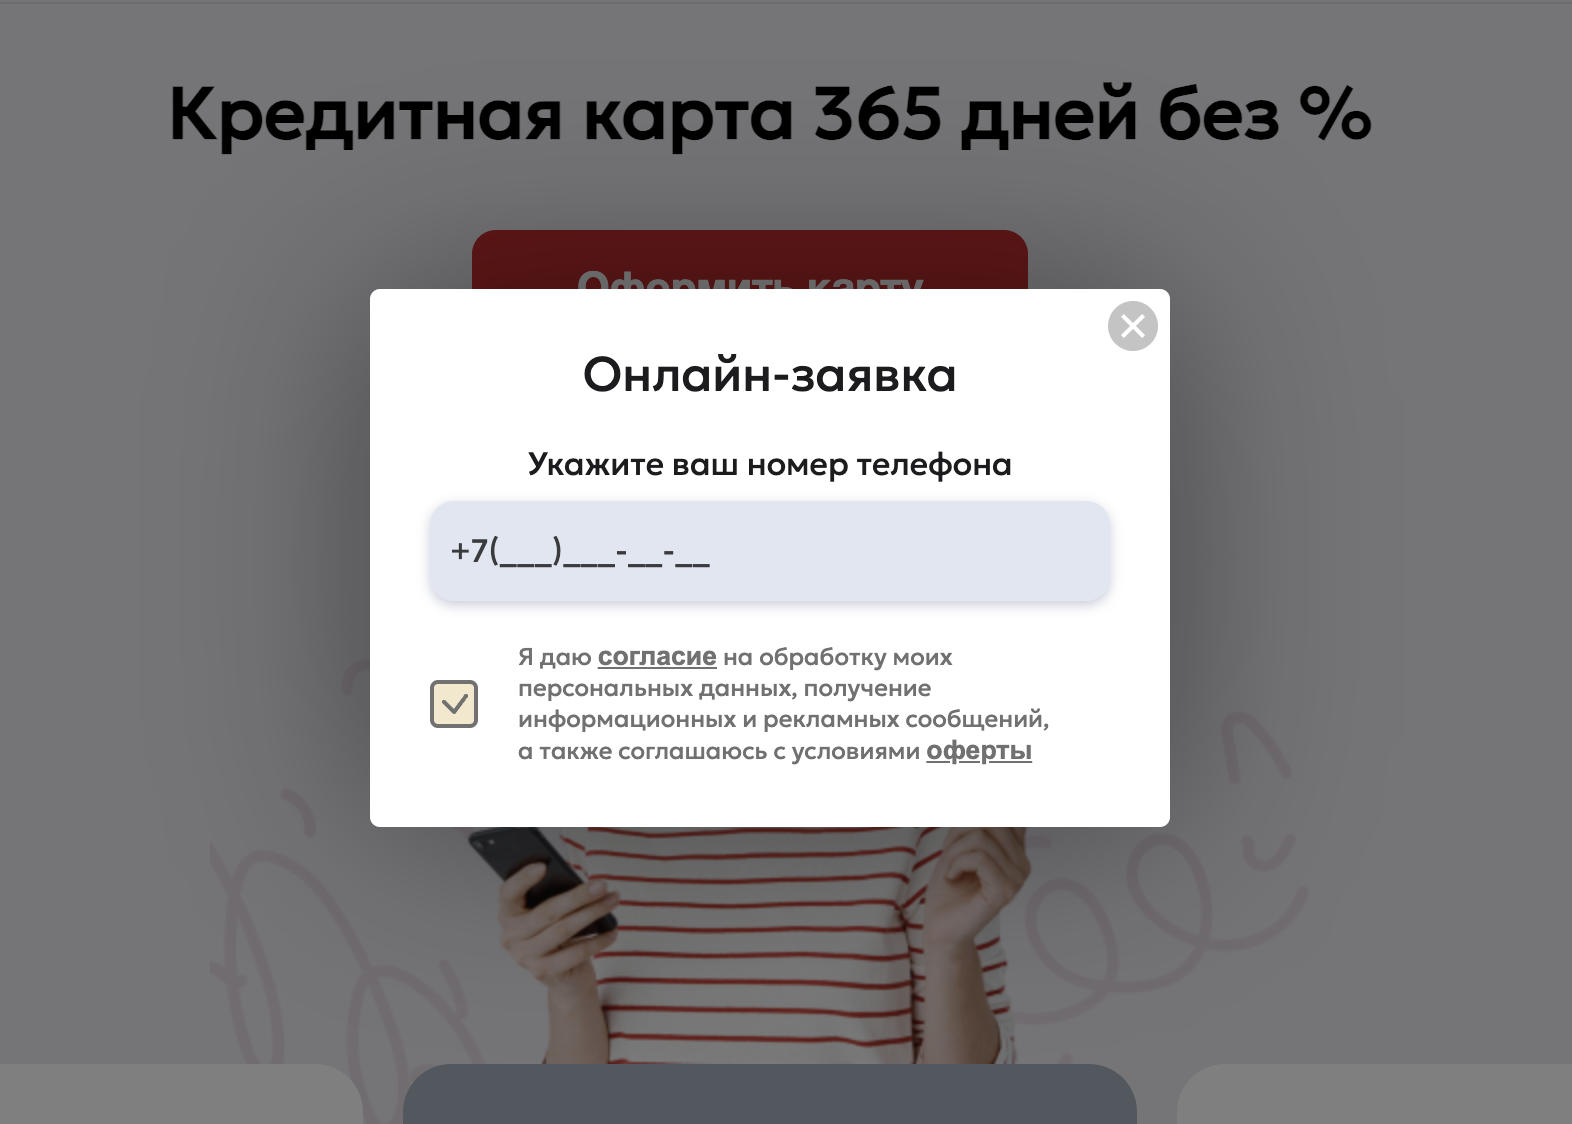
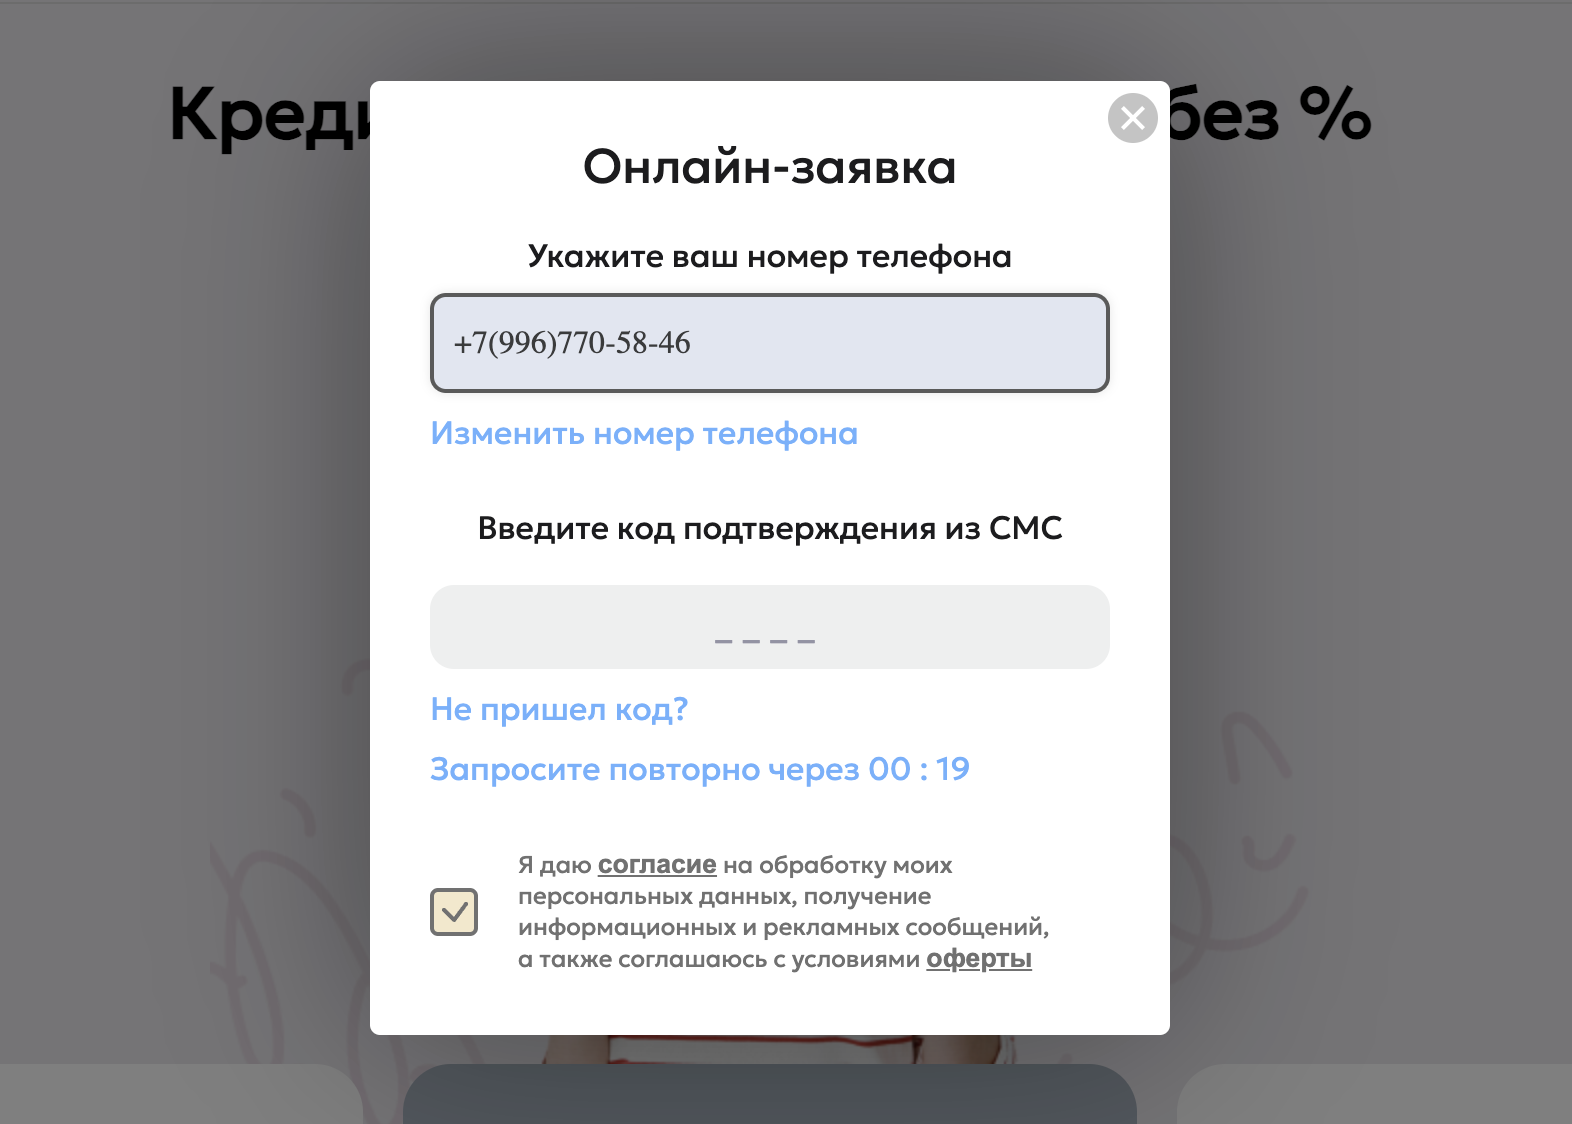
Update

Changed region(s): [[0.2182, 0.0623, 0.7481, 0.5294], [0.2182, 0.5605, 0.7481, 0.9342]]

diff --git a/README.md b/README.md
@@ -1,14 +1,33 @@
 # Процесс авторизации, заполнения анкеты и получения статусов на onlinebank.pro
 
 ## 1. Процесс авторизации
+
+**1.1 Переход на главную страницу и вход в личный кабинет**
+
+Пользователь переходит по ссылке [`https://onlinebank.pro`](https://onlinebank.pro) и попадает на главную страницу сервиса. Для входа в личный кабинет пользователь нажимает на кнопку "Личный кабинет", расположенную в верхней части страницы.
+
 ![Главная страница OnlineBank](images/onlinebank-homepage.png)
-- Пользователь вводит номер телефона +79967705846 на странице авторизации.
+
+**1.2 Авторизация по номеру телефона**
+
+В открывшемся окне авторизации пользователь вводит свой номер телефона в соответствующее поле (в данном случае +79967705846).
+
 ![Страница ввода номера телефона](images/phone-number-input.png)
-- Фронтенд отправляет запрос на эндпоинт `/api/authorization/` в сервисе user-sign-in.
-![Запрос авторизации в консоли разработчика](images/authorization-request.png)
-- Пользователь получает код 2000 и вводит его для подтверждения.
+
+**1.3 Отправка запроса на авторизацию**
+
+Фронтенд приложения отправляет запрос на backend по адресу `/api/authorization/` в сервис `user-sign-in`.
+
+**1.4 Подтверждение номера телефона**
+
+В ответ на запрос пользователь получает SMS-сообщение с кодом подтверждения (в данном случае 2000). Пользователь вводит полученный код в поле.
+
 ![Страница ввода кода подтверждения](images/confirmation-code-input.png)
-- После успешной авторизации пользователь получает доступ к личному кабинету.
+
+**1.5 Доступ к личному кабинету**
+
+После успешного ввода кода подтверждения пользователь перенаправляется в свой личный кабинет.
+
 ![Личный кабинет пользователя](images/user-dashboard.png)
 
 ## 2. Заполнение анкеты
@@ -28,7 +47,8 @@
 - Заявка отправляется партнерам (Банк1, Банк2, МФО1).
 
 ## 4. Получение статусов от партнеров
-
+- Пользователь получает статусы заявок.
+  ![Статусы заявок в личном кабинете](images/application-statuses.png)
 ### a) Банк1
 - Отправляет Excel-отчет на почту report@mail.ru.
 - Сервис get-status парсит почту каждый час.
